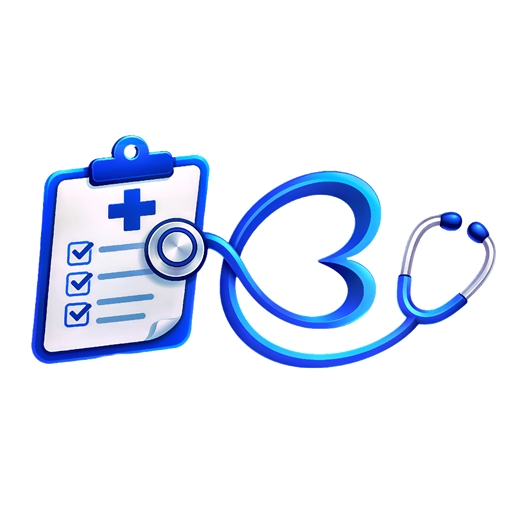
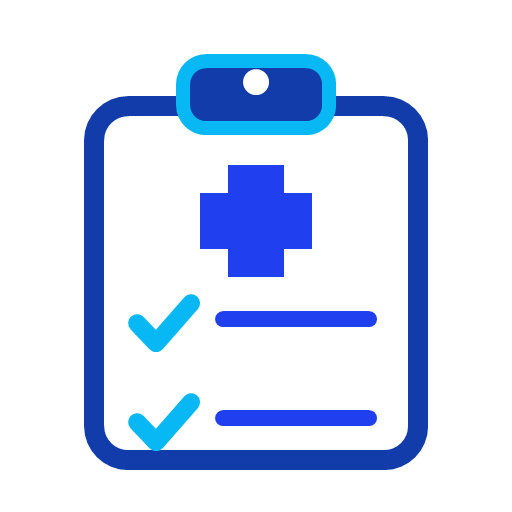
some changes

diff --git a/style.css b/style.css
@@ -1,7 +1,7 @@
 /* ===== Couleurs (clair / sombre) ===== */
-:root{--bg:#f2f7fa;--card:#fff;--ink:#12303d;--mute:#566f7c;--line:#d3e2ea;--acc:#0b7a9e;--acc2:#10a39a;--soft:#e6f4f6;--acc-ink:#fff;--warn:#c0392b;--ok:#23895a;--hd1:#0b7a9e;--hd2:#10a39a}
-:root[data-theme="dark"]{color-scheme:dark;--bg:#0e1a20;--card:#15262e;--ink:#e4eff3;--mute:#98b1bc;--line:#2a414c;--acc:#4cc3e0;--acc2:#3fcfc4;--soft:#193541;--acc-ink:#05212b;--warn:#f08a7a;--ok:#6fd1a0;--hd1:#0a6683;--hd2:#0d8a83}
-@media (prefers-color-scheme:dark){:root:not([data-theme]){color-scheme:dark;--bg:#0e1a20;--card:#15262e;--ink:#e4eff3;--mute:#98b1bc;--line:#2a414c;--acc:#4cc3e0;--acc2:#3fcfc4;--soft:#193541;--acc-ink:#05212b;--warn:#f08a7a;--ok:#6fd1a0;--hd1:#0a6683;--hd2:#0d8a83}}
+:root{--bg:#f2f7fa;--card:#fff;--ink:#12303d;--mute:#566f7c;--line:#d3e2ea;--acc:#1554d1;--acc2:#08b8f4;--soft:#eaf3ff;--acc-tint:#e2edff;--acc2-tint:#def5ff;--acc2-ink:#087eae;--acc-ink:#fff;--warn:#c0392b;--ok:#23895a;--hd1:#123caa;--hd2:#078fcf;--preview-frame:#153657;--preview-bg:#edf4fa;--preview-card:#fff;--preview-ink:#153a55;--preview-muted:#58758b;--preview-line:#dce7ef;--preview-placeholder:#e5edf3}
+:root[data-theme="dark"]{color-scheme:dark;--bg:#0e1a20;--card:#15262e;--ink:#e4eff3;--mute:#98b1bc;--line:#2a414c;--acc:#68baff;--acc2:#24c4f2;--soft:#19304d;--acc-tint:#203959;--acc2-tint:#173d50;--acc2-ink:#5bd7ff;--acc-ink:#08233c;--warn:#f08a7a;--ok:#6fd1a0;--hd1:#10348f;--hd2:#087fbf;--preview-frame:#0c2036;--preview-bg:#142630;--preview-card:#1c303c;--preview-ink:#e4eff3;--preview-muted:#a3b8c3;--preview-line:#344b58;--preview-placeholder:#304651}
+@media (prefers-color-scheme:dark){:root:not([data-theme]){color-scheme:dark;--bg:#0e1a20;--card:#15262e;--ink:#e4eff3;--mute:#98b1bc;--line:#2a414c;--acc:#68baff;--acc2:#24c4f2;--soft:#19304d;--acc-tint:#203959;--acc2-tint:#173d50;--acc2-ink:#5bd7ff;--acc-ink:#08233c;--warn:#f08a7a;--ok:#6fd1a0;--hd1:#10348f;--hd2:#087fbf;--preview-frame:#0c2036;--preview-bg:#142630;--preview-card:#1c303c;--preview-ink:#e4eff3;--preview-muted:#a3b8c3;--preview-line:#344b58;--preview-placeholder:#304651}}
 :root[data-theme="light"]{color-scheme:light}
 
 /* ===== Base ===== */
@@ -42,7 +42,7 @@ pre{background:var(--card);border:1px solid var(--line);border-radius:8px;paddin
 .landing-page{min-height:100vh;overflow:hidden;background:var(--bg);color:var(--ink)}
 .landing-header{position:relative;max-width:1220px;margin:0 auto;padding:24px 32px;display:flex;align-items:center;justify-content:space-between;gap:24px}
 .landing-brand{display:inline-flex;align-items:center;text-decoration:none}
-.landing-brand img{display:block;width:132px;height:56px;object-fit:contain}
+.landing-brand img{display:block;width:132px;height:auto}
 .landing-nav{display:flex;align-items:center;gap:28px}
 .landing-nav>a{color:var(--mute);font-size:.92rem;font-weight:600;text-decoration:none}
 .landing-nav>a:hover,.landing-secondary:hover{color:var(--acc)}
@@ -73,55 +73,55 @@ pre{background:var(--card);border:1px solid var(--line);border-radius:8px;paddin
 .device-caption{position:absolute;display:inline-flex;align-items:center;gap:7px;padding:5px 10px;border:1px solid var(--line);border-radius:20px;background:var(--card);color:var(--mute);font-size:.68rem;font-weight:700;box-shadow:0 4px 14px #143b5012}
 .device-caption::before{width:6px;height:6px;border-radius:50%;background:var(--acc2);content:""}
 .device-laptop{top:42px;left:5%;width:88%;z-index:1}
-.laptop-screen{overflow:hidden;padding:7px;border:1px solid #173b4c;background:#173b4c;border-radius:12px 12px 5px 5px;box-shadow:0 22px 45px #143b5025}
-.preview-topbar{display:flex;align-items:center;gap:7px;height:32px;padding:0 9px;border-radius:6px 6px 0 0;background:#f8fbfc;color:#153a49;font-size:.58rem}
-.preview-logo{width:68px;height:28px;object-fit:contain}
-.preview-top-menu{margin-left:auto;color:#647d88;font-size:.7rem}
-.preview-workspace{display:flex;min-height:245px;background:#edf4f6}
-.preview-sidebar{display:flex;flex:0 0 37px;flex-direction:column;align-items:center;gap:13px;padding:14px 0;background:#fff}
-.preview-sidebar i{width:13px;height:5px;border-radius:4px;background:#cbdde3}
-.preview-sidebar i:first-child{background:#0b7a9e}
+.laptop-screen{overflow:hidden;padding:7px;border:1px solid var(--preview-frame);background:var(--preview-frame);border-radius:12px 12px 5px 5px;box-shadow:0 22px 45px #143b5025}
+.preview-topbar{display:flex;align-items:center;gap:7px;height:32px;padding:0 9px;border-radius:6px 6px 0 0;background:var(--preview-card);color:var(--preview-ink);font-size:.58rem}
+.preview-logo{width:68px;height:auto}
+.preview-top-menu{margin-left:auto;color:var(--preview-muted);font-size:.7rem}
+.preview-workspace{display:flex;min-height:245px;background:var(--preview-bg)}
+.preview-sidebar{display:flex;flex:0 0 37px;flex-direction:column;align-items:center;gap:13px;padding:14px 0;background:var(--preview-card)}
+.preview-sidebar i{width:13px;height:5px;border-radius:4px;background:var(--preview-line)}
+.preview-sidebar i:first-child{background:var(--acc)}
 .preview-main{flex:1;min-width:0;padding:17px 18px}
-.preview-heading{display:flex;flex-direction:column;gap:4px;color:#52707c;font-size:.53rem}
-.preview-heading b{color:#153a49;font-size:.9rem}
-.preview-progress{height:5px;margin:10px 0 13px;border-radius:5px;background:#dce8eb}
-.preview-progress span{display:block;width:46%;height:100%;border-radius:inherit;background:linear-gradient(90deg,#0b7a9e,#10a39a)}
+.preview-heading{display:flex;flex-direction:column;gap:4px;color:var(--preview-muted);font-size:.53rem}
+.preview-heading b{color:var(--preview-ink);font-size:.9rem}
+.preview-progress{height:5px;margin:10px 0 13px;border-radius:5px;background:var(--preview-line)}
+.preview-progress span{display:block;width:46%;height:100%;border-radius:inherit;background:linear-gradient(90deg,var(--acc),var(--acc2))}
 .preview-two-cards{display:grid;grid-template-columns:1fr 1fr;gap:9px}
-.preview-card{display:flex;min-height:75px;flex-direction:column;gap:7px;padding:10px;border:1px solid #e0eaed;border-radius:7px;background:#fff}
-.preview-card small,.tablet-content small,.phone-content small{color:#0b8294;font-size:.45rem;font-weight:750;letter-spacing:.06em}
-.preview-card b,.tablet-content>b,.phone-content>b{color:#1a3b49;font-size:.61rem;line-height:1.4}
-.preview-card>i,.tablet-content>i,.phone-content>i{height:5px;border-radius:5px;background:#e4ecef}
+.preview-card{display:flex;min-height:75px;flex-direction:column;gap:7px;padding:10px;border:1px solid var(--preview-line);border-radius:7px;background:var(--preview-card)}
+.preview-card small,.tablet-content small,.phone-content small{color:var(--acc);font-size:.45rem;font-weight:750;letter-spacing:.06em}
+.preview-card b,.tablet-content>b,.phone-content>b{color:var(--preview-ink);font-size:.61rem;line-height:1.4}
+.preview-card>i,.tablet-content>i,.phone-content>i{height:5px;border-radius:5px;background:var(--preview-placeholder)}
 .preview-card>i.short,.tablet-content>i.short,.phone-content>i.short{width:62%}
-.preview-tag{align-self:flex-start;padding:4px 6px;border-radius:4px;background:#e7f5f4;color:#278b80;font-size:.45rem}
+.preview-tag{align-self:flex-start;padding:4px 6px;border-radius:4px;background:var(--soft);color:var(--acc);font-size:.45rem}
 .preview-wide{min-height:65px;margin-top:9px}
 .preview-table{display:grid;grid-template-columns:1fr 1fr 1fr;gap:5px}
-.preview-table i{height:11px;border:1px solid #e1eaed;border-radius:3px;background:#f7fafb}
+.preview-table i{height:11px;border:1px solid var(--preview-line);border-radius:3px;background:var(--preview-bg)}
 .laptop-base{position:relative;width:108%;height:9px;margin-left:-4%;border-radius:2px 2px 14px 14px;background:linear-gradient(#cbd6da,#8fa2aa);box-shadow:0 8px 13px #143b5017}
 .laptop-base::after{position:absolute;top:0;left:40%;width:20%;height:3px;border-radius:0 0 7px 7px;background:#718b94;content:""}
 .device-laptop>.device-caption{top:-16px;right:4%}
-.device-tablet{bottom:42px;left:-2%;z-index:3;width:43%;padding:7px;border:1px solid #657e87;border-radius:12px;background:#173b4c;box-shadow:0 15px 32px #143b5030;transform:rotate(-5deg)}
-.tablet-screen{overflow:hidden;min-height:180px;border-radius:7px;background:#f2f7f8}
-.tablet-appbar{display:flex;align-items:center;gap:6px;height:26px;padding:0 8px;background:#fff;color:#153a49;font-size:.48rem}
+.device-tablet{bottom:42px;left:-2%;z-index:3;width:43%;padding:7px;border:1px solid var(--preview-frame);border-radius:12px;background:var(--preview-frame);box-shadow:0 15px 32px #143b5030;transform:rotate(-5deg)}
+.tablet-screen{overflow:hidden;min-height:180px;border-radius:7px;background:var(--preview-bg)}
+.tablet-appbar{display:flex;align-items:center;gap:6px;height:26px;padding:0 8px;background:var(--preview-card);color:var(--preview-ink);font-size:.48rem}
 .tablet-content{display:flex;flex-direction:column;gap:7px;padding:12px}
 .tablet-content small{font-size:.38rem}
 .tablet-content>b{font-size:.54rem}
-.tablet-section{display:flex;justify-content:space-between;margin-top:5px;padding:7px;border:1px solid #dfe9eb;border-radius:4px;background:#fff;color:#264957;font-size:.46rem}
-.tablet-section span{color:#0b8294}
-.tablet-line{height:13px;border:1px solid #e1eaed;border-radius:3px;background:#fff}
+.tablet-section{display:flex;justify-content:space-between;margin-top:5px;padding:7px;border:1px solid var(--preview-line);border-radius:4px;background:var(--preview-card);color:var(--preview-ink);font-size:.46rem}
+.tablet-section span{color:var(--acc)}
+.tablet-line{height:13px;border:1px solid var(--preview-line);border-radius:3px;background:var(--preview-card)}
 .tablet-line.half{width:70%}
 .device-tablet>.device-caption{bottom:-17px;left:24%}
-.device-phone{top:143px;right:0;z-index:4;width:28%;min-width:105px;max-width:132px;padding:6px;border:1px solid #607b84;border-radius:20px;background:#173b4c;box-shadow:0 18px 34px #143b5038;transform:rotate(5deg)}
-.phone-screen{position:relative;overflow:hidden;min-height:221px;border-radius:14px;background:#f2f7f8}
-.phone-notch{position:absolute;top:0;left:35%;width:30%;height:8px;border-radius:0 0 7px 7px;background:#173b4c}
-.phone-appbar{display:flex;align-items:center;gap:5px;height:34px;padding:6px 7px 0;background:#fff;color:#173b4c;font-size:.38rem}
-.phone-appbar .preview-logo{width:40px;height:18px}
+.device-phone{top:143px;right:0;z-index:4;width:28%;min-width:105px;max-width:132px;padding:6px;border:1px solid var(--preview-frame);border-radius:20px;background:var(--preview-frame);box-shadow:0 18px 34px #143b5038;transform:rotate(5deg)}
+.phone-screen{position:relative;overflow:hidden;min-height:221px;border-radius:14px;background:var(--preview-bg)}
+.phone-notch{position:absolute;top:0;left:35%;width:30%;height:8px;border-radius:0 0 7px 7px;background:var(--preview-frame)}
+.phone-appbar{display:flex;align-items:center;gap:5px;height:34px;padding:6px 7px 0;background:var(--preview-card);color:var(--preview-ink);font-size:.38rem}
+.phone-appbar .preview-logo{width:40px}
 .phone-appbar>span:last-child{margin-left:auto}
 .phone-content{display:flex;flex-direction:column;gap:9px;padding:14px 9px}
 .phone-content small{font-size:.36rem}
 .phone-content>b{font-size:.55rem}
-.phone-content>i{height:21px;border:1px solid #dae5e8;background:#fff}
+.phone-content>i{height:21px;border:1px solid var(--preview-line);background:var(--preview-card)}
 .phone-content>i.short{width:70%}
-.phone-button{height:18px;margin-top:3px;border-radius:5px;background:#0b7a9e}
+.phone-button{height:18px;margin-top:3px;border-radius:5px;background:var(--acc)}
 .device-phone>.device-caption{right:-15px;bottom:-16px}
 .landing-features{padding:76px max(32px,calc((100vw - 1156px)/2)) 82px;background:var(--card)}
 .features-heading{max-width:650px;margin:0 auto 34px;text-align:center}
@@ -133,11 +133,11 @@ pre{background:var(--card);border:1px solid var(--line);border-radius:8px;paddin
 .feature-card:hover{transform:translateY(-3px);box-shadow:0 12px 24px #143b5010}
 .feature-icon{display:grid;place-items:center;width:46px;height:46px;margin-bottom:21px;border-radius:12px}
 .feature-icon svg{width:26px;height:26px;fill:none;stroke:currentColor;stroke-width:1.8;stroke-linecap:round;stroke-linejoin:round}
-.icon-teal{background:#dcf4ef;color:#228879}.icon-blue{background:#e1f1f8;color:#277fa0}.icon-violet{background:#eee9fb;color:#7560ae}.icon-amber{background:#fbf0d9;color:#a7741a}
+.icon-teal{background:var(--acc-tint);color:var(--acc)}.icon-blue{background:var(--acc2-tint);color:var(--acc2-ink)}.icon-violet{background:var(--acc-tint);color:var(--acc)}.icon-amber{background:var(--acc2-tint);color:var(--acc2-ink)}
 .feature-card h3{margin:0 0 7px;color:var(--ink);font-size:.98rem}
 .feature-card p{margin:0;color:var(--mute);font-size:.84rem;line-height:1.65}
 .landing-footer{display:flex;justify-content:space-between;gap:16px;max-width:1220px;margin:0 auto;padding:0 32px 26px;color:var(--mute);font-size:.75rem}
-.back-home{display:block;margin:3px 0 0;padding:0;border:0;background:transparent;color:#ffffffd9;font:inherit;font-size:.73rem;cursor:pointer}
+.back-home{display:block;margin:3px 0 0;padding:0;border:0;background:transparent;color:var(--acc);font:inherit;font-size:.73rem;cursor:pointer}
 .back-home:hover{text-decoration:underline}
 
 @media (max-width:900px){
@@ -162,7 +162,7 @@ pre{background:var(--card);border:1px solid var(--line);border-radius:8px;paddin
   .wizard-review{padding:12px}
   .wizard-review dl{grid-template-columns:1fr}
   .landing-header{flex-wrap:wrap;padding:16px;gap:10px}
-  .landing-brand img{width:112px;height:48px}
+  .landing-brand img{width:112px}
   .landing-menu-toggle{display:flex;width:36px;height:36px}
   .landing-menu-toggle[aria-expanded="true"]{position:fixed;z-index:52;top:16px;left:min(calc(86vw - 52px),308px)}
   .landing-header .landing-nav{display:flex;flex:0 0 100%;max-height:0;margin:0;padding:0;align-items:stretch;justify-content:flex-start;flex-direction:column;gap:0;overflow:hidden;opacity:0;visibility:hidden;transition:max-height .36s ease,padding .36s ease,opacity .22s ease,visibility 0s linear .36s}
@@ -209,7 +209,7 @@ pre{background:var(--card);border:1px solid var(--line);border-radius:8px;paddin
   .wizard-stepper{gap:6px}
   .wizard-step-button{gap:7px;padding:7px}
   .wizard-step-label{font-size:.72rem}
-  .landing-brand img{width:100px;height:44px}
+  .landing-brand img{width:100px}
   .landing-nav-cta{font-size:.72rem}
   .landing-copy h1{font-size:2.35rem}
   .landing-actions{align-items:flex-start;flex-direction:column}
@@ -230,21 +230,21 @@ pre{background:var(--card);border:1px solid var(--line);border-radius:8px;paddin
 input:focus,select:focus,textarea:focus,button:focus-visible{outline:2px solid var(--acc);outline-offset:1px}
 
 /* ===== En-tête et menu ===== */
-.top{position:relative;display:flex;align-items:center;gap:14px;background:linear-gradient(135deg,var(--hd1),var(--hd2));color:#fff;border-radius:12px;padding:16px 18px;margin-bottom:16px}
-.top .app-logo{flex:none;width:132px;height:56px;object-fit:contain}
+.top{position:relative;display:flex;align-items:center;gap:14px;background:var(--card);color:var(--ink);border:1px solid var(--line);border-radius:12px;padding:16px 18px;margin-bottom:16px}
+.top .app-logo{flex:none;width:132px;height:auto}
 .sr-only{position:absolute;width:1px;height:1px;padding:0;margin:-1px;overflow:hidden;clip:rect(0,0,0,0);white-space:nowrap;border:0}
 .nav{position:absolute;z-index:20;top:calc(100% + 8px);left:0;right:0;max-height:0;margin:0;overflow:hidden;opacity:0;visibility:hidden;transition:max-height .36s ease,opacity .22s ease,visibility 0s linear .36s}
 .nav.is-open{max-height:min(80vh,720px);overflow-y:auto;overscroll-behavior:contain;opacity:1;visibility:visible;transition:max-height .36s ease,opacity .22s ease,visibility 0s}
-.menu-toggle{display:flex;align-items:center;justify-content:center;width:42px;height:42px;margin-left:auto;padding:0;border:1px solid transparent;border-radius:8px;background:transparent;color:#fff;cursor:pointer}
+.menu-toggle{display:flex;align-items:center;justify-content:center;width:42px;height:42px;margin-left:auto;padding:0;border:1px solid transparent;border-radius:8px;background:transparent;color:var(--acc);cursor:pointer}
 .install-app{display:block;margin:0 0 12px auto;padding:7px 10px;font-size:.8rem}
-.appearance-toggle{display:flex;align-items:center;justify-content:center;flex:none;width:38px;height:38px;margin-left:auto;padding:8px;border:1px solid #ffffff80;border-radius:8px;background:transparent;color:#fff;cursor:pointer}
-.appearance-toggle:hover,.appearance-toggle[aria-expanded="true"]{background:#ffffff26}
+.appearance-toggle{display:flex;align-items:center;justify-content:center;flex:none;width:38px;height:38px;margin-left:auto;padding:8px;border:1px solid var(--line);border-radius:8px;background:transparent;color:var(--acc);cursor:pointer}
+.appearance-toggle:hover,.appearance-toggle[aria-expanded="true"]{background:var(--soft)}
 .appearance-toggle svg{width:20px;height:20px;fill:currentColor}
 .top .menu-toggle{margin-left:0}
 .appearance-menu{position:absolute;z-index:10;top:calc(100% + 6px);right:8px;display:flex;flex-wrap:wrap;justify-content:flex-end;gap:4px;max-width:min(360px,calc(100vw - 48px));padding:6px;background:var(--card);border:1px solid var(--line);border-radius:9px;box-shadow:0 8px 24px #0002}
 .appearance-option{padding:7px 9px;border:0;border-radius:6px;background:transparent;color:var(--ink);font:inherit;font-size:.82rem;cursor:pointer}
 .appearance-option:hover,.appearance-option[aria-pressed="true"]{background:var(--soft);color:var(--acc)}
-.menu-toggle:hover{background:#ffffff26;border-color:#ffffff80}
+.menu-toggle:hover{background:var(--soft);border-color:var(--line)}
 .menu-icon{position:relative;display:block;width:21px;height:18px}
 .menu-icon span{position:absolute;left:0;width:100%;height:2px;border-radius:2px;background:currentColor;transition:top .22s ease,transform .22s ease,opacity .16s ease}
 .menu-icon span:nth-child(1){top:1px}

diff --git a/app.js b/app.js
@@ -68,6 +68,7 @@ const S = [
 const data = {};
 const $ = s => document.querySelector(s);
 const APPEARANCE_KEY = "demarcheSoins.appearance.v1";
+const systemAppearanceQuery = window.matchMedia("(prefers-color-scheme: dark)");
 let currentRecordId = null;
 let deferredInstallPrompt = null;
 let currentWizardStep = 0;
@@ -88,10 +89,16 @@ function applyAppearance(appearance){
   const root=document.documentElement;
   if(appearance==="system") delete root.dataset.theme;
   else root.dataset.theme=appearance;
-  const dark=appearance==="dark"||(appearance==="system"&&window.matchMedia("(prefers-color-scheme: dark)").matches);
+  const dark=appearance==="dark"||(appearance==="system"&&systemAppearanceQuery.matches);
   const themeColor=document.querySelector('meta[name="theme-color"]');
-  if(themeColor) themeColor.content=dark?"#0a6683":"#0b7a9e";
+  if(themeColor) themeColor.content=dark?"#10348f":"#123caa";
 }
+systemAppearanceQuery.addEventListener("change",event=>{
+  if(!document.documentElement.dataset.theme){
+    const themeColor=document.querySelector('meta[name="theme-color"]');
+    if(themeColor) themeColor.content=event.matches?"#10348f":"#123caa";
+  }
+});
 function initializeAppearance(){
   let appearance="system";
   try{

diff --git a/index.html b/index.html
@@ -3,10 +3,10 @@
 <head>
   <meta charset="utf-8">
   <meta name="viewport" content="width=device-width, initial-scale=1">
-  <meta name="theme-color" content="#0b7a9e">
+  <meta name="theme-color" content="#123caa">
   <title>Démarche de soins</title>
   <link rel="manifest" href="./manifest.json">
-  <link rel="icon" href="./icon-192.png" type="image/png" sizes="192x192">
+  <link rel="icon" href="./icon.svg" type="image/svg+xml">
   <link rel="apple-touch-icon" href="./apple-touch-icon.png">
 </head>
 <body>

diff --git a/public/sw.js b/public/sw.js
@@ -1,9 +1,10 @@
-const CACHE_NAME = "demarche-soins-pwa-v17";
+const CACHE_NAME = "demarche-soins-pwa-v19";
 const APP_SHELL = [
   "./",
   "./index.html",
   "./manifest.json",
   "./logo.png",
+  "./icon.svg",
   "./icon-192.png",
   "./icon-512.png",
   "./apple-touch-icon.png"
